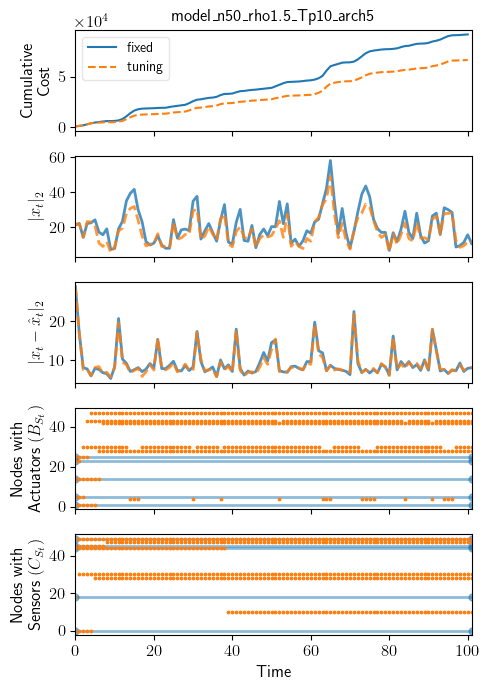
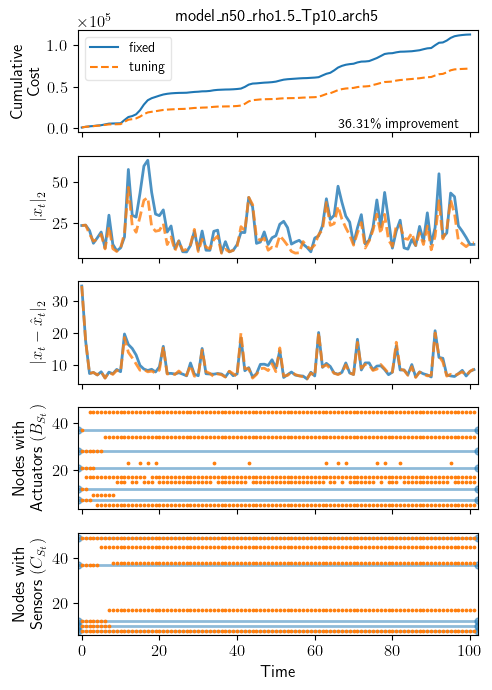
Test dump

diff --git a/greedy_architecture_combined.py b/greedy_architecture_combined.py
@@ -4,8 +4,8 @@ import random
 import time
 import scipy as scp
 from copy import deepcopy as dc
-# import control
-
+import shelve
+import os
 import matplotlib
 import matplotlib.pyplot as plt
 import scipy.linalg
@@ -29,6 +29,8 @@ matplotlib.rcParams['text.usetex'] = True
 matplotlib.rcParams['savefig.bbox'] = 'tight'
 matplotlib.rcParams['savefig.format'] = 'pdf'
 
+# datadump_folderpath = 'C:/Users/kxg161630/Box/KarthikGanapathy_Research/SpeedyGreedyAlgorithm/DataDump/'
+datadump_folderpath = 'D:/Box/KarthikGanapathy_Research/SpeedyGreedyAlgorithm/DataDump'
 
 class System:
     def __init__(self, graph_model=None, architecture=None, additive=None, initial_conditions=None, simulation_parameters=None):
@@ -304,7 +306,6 @@ class System:
         self.trajectory['x_estimate'].append(self.trajectory['X_enhanced'][-1][self.dynamics['number_of_nodes']:])
         self.trajectory['error'].append(self.trajectory['x'][-1] - self.trajectory['x_estimate'][-1])
         self.trajectory['error_2norm'].append(np.linalg.norm(self.trajectory['error'][-1], ord=2))
-        # self.trajectory['error_2norm'].append(np.linalg.norm(self.trajectory['x'][-1] - self.trajectory['x_estimate'][-1], ord=2))
 
     def architecture_costs(self):
         self.trajectory['cost']['running'] = 0
@@ -483,44 +484,6 @@ class System:
                 f_name = "Images/"+self.model_name+"_architecture_history.png"
             plt.savefig(f_name)
             plt.show()
-
-    # def plot_architecture_history(self, f_name=None, ax_in=None):
-    #     if ax_in is None:
-    #         fig = plt.figure()
-    #         grid = fig.add_gridspec(1, 1)
-    #         ax = fig.add_subplot(grid[0, 0])
-    #     else:
-    #         ax = ax_in
-    #
-    #     marker_map = {'B': "o", 'C': "s"}
-    #     clr_map = {'fix': "C0", 'tuning': "C1"}
-    #
-    #     architecture_map = {'B': {'active': [], 'time': []}, 'C': {'active': [], 'time': []}}
-    #     T = len(self.architecture['B']['history'])
-    #     for a in ['B', 'C']:
-    #         for t in range(0, T):
-    #             for i in self.architecture[a]['history'][t]:
-    #                 architecture_map[a]['active'].append(i)
-    #                 architecture_map[a]['time'].append(t)
-    #                 # B_list['active'].append(i)
-    #                 # B_list['time'].append(t)
-    #             # for i in self.architecture['C']['history'][t]:
-    #             #     C_list['active'].append(i)
-    #             #     C_list['time'].append(t)
-    #
-    #     for a in ['B', 'C']:
-    #         for i in self.architecture[a]['history'][0]:
-    #             ax.axhline(i, marker=marker_map[a], c=clr_map['fix'], linewidth=2, alpha=0.5)
-    #         ax.scatter(architecture_map[a]['time'], architecture_map[a]['active'], marker=marker_map[a], c=clr_map['tuning'], label=a)
-    #     ax.legend(loc='lower right')
-    #     ax.set_ylabel('Node position')
-    #
-    #     if ax_in is None:
-    #         ax.set_xlabel('Time')
-    #         if f_name is None:
-    #             f_name = "Images/"+self.model_name+"_architecture_history.png"
-    #         plt.savefig(f_name)
-    #         plt.show()
 
     def plot_trajectory(self, f_name=None,  ax_in=None, plt_map=None, s_type='fixed', v_norm=2):
         if ax_in is None:
@@ -829,17 +792,24 @@ def cost_plots(cost, f_name=None, ax=None, plt_map=None):
                    'tuning': {'c': 'C1', 'line_style': 'dashed', 'alpha': 0.5, 'zorder': 2},
                    'marker': {'B': "+", 'C': "+"}}
 
+    # font = {'family': 'serif', 'color': 'darkred', 'weight': 'normal', 'size': 16}
+
+    tstep_cost = {}
+    T = len(cost['fixed'])
     for i in cost:
         cumulative_cost = [cost[i][0]]
-        for t in range(1, len(cost[i])):
+        for t in range(1, T):
             cumulative_cost.append(cumulative_cost[-1] + cost[i][t])
-        ax_cost.plot(range(0, len(cumulative_cost)), cumulative_cost, label=i, c=plt_map[i]['c'], linestyle=plt_map[i]['line_style'], zorder=plt_map[i]['zorder'])
+        tstep_cost[i] = cumulative_cost[-1]
+        ax_cost.plot(range(0, T), cumulative_cost, label=i, c=plt_map[i]['c'], linestyle=plt_map[i]['line_style'], zorder=plt_map[i]['zorder'])
     ax_cost.set_ylabel('Cumulative\nCost')
     ax_cost.ticklabel_format(axis='y', style='sci', scilimits=(-2, 2))
-    # ax_cost.set_yscale('log')
     ax_cost.legend(loc='upper left')
-    # print([len(cost[i]) for i in cost])
-    ax_cost.set_xlim(0, max([len(cost[i]) for i in cost]))
+    improvement = 100*(tstep_cost['fixed']-tstep_cost['tuning'])/tstep_cost['fixed']
+    improvement_str = str(np.round(improvement, 2)) + r'\% improvement'
+    print(improvement_str)
+    ax_cost.text(T-35, 0, improvement_str)
+    ax_cost.set_xlim(-1, 1+max([len(cost[i]) for i in cost]))
 
     if ax is None:
         ax_cost.set_title('Cost comparison')
@@ -852,43 +822,9 @@ def cost_plots(cost, f_name=None, ax=None, plt_map=None):
         plt.show()
 
 
-# def trajectory_plots(state_trajectory, error_trajectory, f_name=None, ax=None, plt_map=None):
-#     if ax is None:
-#         fig = plt.figure(figsize=(6, 4), )
-#         grid = fig.add_gridspec(2, 1)
-#         ax_error = fig.add_subplot(grid[0, 0])
-#         ax_state = fig.add_subplot(grid[1, 0], sharex=ax_error)
-#     else:
-#         ax_error = ax[0]
-#         ax_state = ax[1]
-#
-#     if plt_map is None:
-#         plt_map = {'fixed': {'c': 'C0', 'line_style': 'solid', 'alpha': 0.5},
-#                    'tuning': {'c': 'C1', 'line_style': 'dotted', 'alpha': 0.5}}
-#     #
-#     # if clr is None:
-#     #     clr = {'fixed': 'C0', 'tuning': 'C1'}
-#     # line_style = {'fixed': 'solid', 'tuning': 'dashed'}
-#     for k in error_trajectory:
-#         ax_error.plot(range(0, len(error_trajectory[k])), error_trajectory[k], c=plt_map[k]['c'], linestyle=plt_map[k]['line_style'], label=k, alpha=plt_map[k]['alpha'])
-#         for i in range(0, len(state_trajectory[k][0])):
-#             x = [state_trajectory[k][t][i] for t in range(0, len(state_trajectory[k]))]
-#             ax_state.plot(range(0, len(x)), x, alpha=0.2, c=plt_map[k]['c'], linestyle=plt_map[k]['line_style'])
-#     ax_state.set_ylabel('State')
-#     ax_error.set_ylabel('Error')
-#     ax_state.set_xlim(0, max([len(error_trajectory[k]) for k in error_trajectory]))
-#     # ax_error.set_title('Error Trajectory')
-#     # fig.suptitle('Trajectory comparison: ' + f_name)
-#     if ax is None:
-#         ax_error.legend()
-#         ax_error.set_xlabel('time')
-#         fig.suptitle('Trajectory comparison')
-#         plt.savefig("Images/" + f_name + "_state_error_trajectory.png")
-#         plt.show()
-
-
 def combined_plot(S, S_fixed, S_tuning):
-    # state_trajectory, error_trajectory, cost, architecture, f_name=None):
+    print('\n Plotting')
+
     fig = plt.figure(figsize=(5, 7), tight_layout=True)
     grid = fig.add_gridspec(5, 1)
     plt_map = {'fixed': {'c': 'C0', 'line_style': 'solid', 'alpha': 0.5, 'zorder': 1},
@@ -904,7 +840,6 @@ def combined_plot(S, S_fixed, S_tuning):
     cost_plots({'fixed': S_fixed.trajectory['cost']['true'], 'tuning': S_tuning.trajectory['cost']['true']}, S.model_name, ax_cost, plt_map=plt_map)
     S_fixed.plot_trajectory(ax_in={'x': ax_trajectory, 'error': ax_error}, plt_map=plt_map, s_type='fixed')
     S_tuning.plot_trajectory(ax_in={'x': ax_trajectory, 'error': ax_error}, plt_map=plt_map, s_type='tuning')
-    # trajectory_plots({'fixed': S_fixed.trajectory['x'], 'tuning': S_tuning.trajectory['x']}, {'fixed': S_fixed.trajectory['error_2norm'], 'tuning': S_tuning.trajectory['error_2norm']}, S.model_name, [ax_error, ax_trajectory], plt_map=plt_map)
     S_tuning.plot_architecture_history(ax_in={'B': ax_architecture_B, 'C': ax_architecture_C}, plt_map=plt_map)
 
     ax_cost.tick_params(axis="x", labelbottom=False)
@@ -914,8 +849,9 @@ def combined_plot(S, S_fixed, S_tuning):
     ax_cost.set_title(S.model_name)
     ax_architecture_C.set_xlabel('Time')
 
-    f_name = S.model_name+'_fixed_vs_tuning'
-    plt.savefig('Images/'+f_name+'.png')
+    save_file = 'Images/' + S.model_name+'_fixed_vs_tuning.png'
+    plt.savefig(save_file)
+    print('Figure saved:', save_file)
     plt.show()
 
 
@@ -930,7 +866,6 @@ def simulate_fixed_architecture(S):
         print("\r t:" + str(t), end="")
         S_fixed.cost_wrapper_enhanced_true()
         S_fixed.system_one_step_update_enhanced(t)
-
     return S_fixed
 
 
@@ -944,8 +879,66 @@ def simulate_selftuning_architecture(S, iterations_per_step=1, changes_per_itera
         S_tuning.cost_wrapper_enhanced_true()
         S_tuning.system_one_step_update_enhanced(t)
         S_tuning = dc(greedy_simultaneous(S_tuning, iterations=iterations_per_step, changes_per_iteration=changes_per_iteration)['work_set'])
-
     return S_tuning
+
+
+def data_shelving_gen_model(S):
+    shelve_filename = datadump_folderpath + 'gen_' + S.model_name
+    shelve_data = shelve.open(shelve_filename)
+    shelve_data['System'] = S
+    shelve_data.close()
+    print('Model shelve done: ', shelve_filename)
+
+
+def data_reading_gen_model(n, rho, Tp, n_arch):
+    print('\n Reading generated model...')
+    model_name = 'gen_model_n' + str(n) + '_rho' + str(rho) + '_Tp' + str(Tp) + '_arch' + str(n_arch)
+    shelve_file = datadump_folderpath + model_name
+    shelve_data = shelve.open(shelve_file)
+    S = shelve_data['System']
+    shelve_data.close()
+    if not isinstance(S, System):
+        raise Exception('System model error')
+    return S
+
+
+def data_shelving_sim_model(S, S_fixed, S_tuning):
+    print('\nTrajectory data shelving')
+    shelve_file = datadump_folderpath + S.model_name
+    print('\nDeleting old data...')
+    for f_type in ['.bak', '.dat', '.dir']:
+        if os.path.exists(shelve_file + f_type):
+            os.remove(shelve_file + f_type)
+    print('\nShelving new data...')
+    shelve_data = shelve.open(shelve_file)
+    for k in ['System', 'Fixed', 'SelfTuning']:
+        if k in shelve_data:
+            del shelve_data[k]
+    shelve_data['System'] = S
+    shelve_data['Fixed'] = S_fixed
+    shelve_data['SelfTuning'] = S_tuning
+    shelve_data.close()
+    print('\nShelving done:', shelve_file)
+
+
+def data_reading_sim_model(n, rho, Tp, n_arch):
+    print('\n Data reading')
+    shelve_file = datadump_folderpath + 'model_n' + str(n) + '_rho' + str(rho) + '_Tp' + str(Tp) + '_arch' + str(n_arch)
+    try:
+        shelve_data = shelve.open(shelve_file)
+    except (FileNotFoundError, IOError):
+        raise Exception('test file not found')
+    for k in ['System', 'Fixed', 'SelfTuning']:
+        if k not in shelve_data:
+            raise Exception('Check data file')
+    S = shelve_data['System']
+    S_fixed = shelve_data['Fixed']
+    S_tuning = shelve_data['SelfTuning']
+    shelve_data.close()
+    if not isinstance(S, System) or not isinstance(S_tuning, System) or not isinstance(S_fixed, System):
+        raise Exception('Data type mismatch')
+    print('Model: ', S.model_name)
+    return S, S_fixed, S_tuning
 
 
 if __name__ == "__main__":

diff --git a/casetest_greedy_architecture_combined_multistep.py b/casetest_greedy_architecture_combined_multistep.py
@@ -1,55 +1,23 @@
 import greedy_architecture_combined as gac
-import os
-import numpy as np
-from copy import deepcopy as dc
-import shelve
-
-datadump_folderpath = 'C:/Users/kxg161630/Box/KarthikGanapathy_Research/SpeedyGreedyAlgorithm/DataDump/'
 
 if __name__ == "__main__":
 
-    print('Reading generated model...')
     n = 50
     rho = 2
     Tp = 10
     n_arch = 5
 
-    model_name = 'gen_model_n'+str(n)+'_rho'+str(rho)+'_Tp'+str(Tp)+'_arch'+str(n_arch)
-    shelve_file = datadump_folderpath + model_name
-    shelve_data = shelve.open(shelve_file)
-    S = shelve_data['System']
-    shelve_data.close()
-    if not isinstance(S, gac.System):
-        raise Exception('System model error')
+    S = gac.data_reading_gen_model(n, rho, Tp, n_arch)
 
-    # # Update T_sim update:
-    # S.simulation_parameters['T_predict'] = 30
-    S.rescale_dynamics(1.5)
+    # # Model update:
+    S.simulation_parameters['T_predict'] = 30
+    # S.rescale_dynamics(1.5)
+
     S.model_rename()
-
     print('Retrieved Model: ', S.model_name)
 
     S_fixed = gac.simulate_fixed_architecture(S)
     S_tuning = gac.simulate_selftuning_architecture(S)
 
-    print('\n\n Trajectory data shelving')
-
-    shelve_file = datadump_folderpath + S.model_name
-    print('Deleting old data...')
-    for f_type in ['.bak', '.dat', '.dir']:
-        if os.path.exists(shelve_file + f_type):
-            os.remove(shelve_file + f_type)
-
-    print('Shelving new data...')
-    shelve_data = shelve.open(shelve_file)
-    for k in ['System', 'Fixed', 'SelfTuning']:
-        if k in shelve_data:
-            del shelve_data[k]
-    shelve_data['System'] = S
-    shelve_data['Fixed'] = S_fixed
-    shelve_data['SelfTuning'] = S_tuning
-    shelve_data.close()
-
-    print('Shelving done:', shelve_file)
-
+    gac.data_shelving_sim_model(S, S_fixed, S_tuning)
     print('\n Done')

diff --git a/casetest_model_gen.py b/casetest_model_gen.py
@@ -1,12 +1,9 @@
 import greedy_architecture_combined as gac
 import numpy as np
-import shelve
-
-datadump_folderpath = 'C:/Users/kxg161630/Box/KarthikGanapathy_Research/SpeedyGreedyAlgorithm/DataDump/'
 
 if __name__ == "__main__":
 
-    print('Model Generation')
+    print('Model Generation Parameters')
 
     n = 50
     rho = 2
@@ -17,28 +14,26 @@ if __name__ == "__main__":
     disturbance_number = 20
     disturbance_magnitude = 5
 
+    # Model Gen
     S = gac.System(graph_model={'number_of_nodes': n, 'rho': rho}, architecture={'rand': n_arch}, simulation_parameters={'T_sim': 100, 'T_predict': Tp})
 
+    # Architecture selection parameters
     S.architecture['B']['max'] = n_arch
     S.architecture['C']['max'] = n_arch
     S.architecture['B']['min'] = n_arch
     S.architecture['C']['min'] = n_arch
 
+    # Architecture selection costs
     S.architecture['B']['cost']['R2'] = 0
     S.architecture['C']['cost']['R2'] = 0
     S.architecture['B']['cost']['R3'] = 0
     S.architecture['C']['cost']['R3'] = 0
 
+    # Noise reshaping
     for i in range(0, S.simulation_parameters['T_sim'], disturbance_step):
-        S.noise['noise_sim'][i][np.random.choice(2 * disturbance_number, 10, replace=False)] = disturbance_magnitude
+        S.noise['noise_sim'][i][np.random.choice(2 * S.dynamics['number_of_nodes'], disturbance_number, replace=False)] = disturbance_magnitude
 
     S.model_rename()
+    print('Model: ', S.model_name)
 
-    print('Model name: ', S.model_name)
-
-    shelve_filename = datadump_folderpath + 'gen_' + S.model_name
-    shelve_data = shelve.open(shelve_filename)
-    shelve_data['System'] = S
-    shelve_data.close()
-
-    print('Model shelve done: ', shelve_filename)
+    gac.data_shelving_gen_model(S)

diff --git a/casetest_plot.py b/casetest_plot.py
@@ -1,34 +1,12 @@
-import shelve
 import greedy_architecture_combined as gac
 
-datadump_folderpath = 'C:/Users/kxg161630/Box/KarthikGanapathy_Research/SpeedyGreedyAlgorithm/DataDump/'
+if __name__ == "__main__":
 
-# Plot from data dump code
-print('\n Data reading')
+    n = 50
+    rho = 2
+    Tp = 30
+    n_arch = 5
 
-n = 50
-rho = 1.5
-Tp = 10
-n_arch = 5
+    S, S_fixed, S_tuning = gac.data_reading_sim_model(n, rho, Tp, n_arch)
 
-shelve_file = datadump_folderpath+'model_n'+str(n)+'_rho'+str(rho)+'_Tp'+str(Tp)+'_arch'+str(n_arch)
-# shelve_file = datadump_folderpath+'model_n'+str(n)+'_rho'+str(rho)+'_Tp'+str(Tp)
-try:
-    shelve_data = shelve.open(shelve_file)
-except (FileNotFoundError, IOError):
-    raise Exception('test file not found')
-
-for k in ['System', 'Fixed', 'SelfTuning']:
-    if k not in shelve_data:
-        raise Exception('Check data file')
-
-S = shelve_data['System']
-S_fixed = shelve_data['Fixed']
-S_tuning = shelve_data['SelfTuning']
-shelve_data.close()
-
-if not isinstance(S, gac.System) or not isinstance(S_tuning, gac.System) or not isinstance(S_fixed, gac.System):
-    raise Exception('Data type mismatch')
-
-print('\n Plotting')
-gac.combined_plot(S, S_fixed, S_tuning)
+    gac.combined_plot(S, S_fixed, S_tuning)
